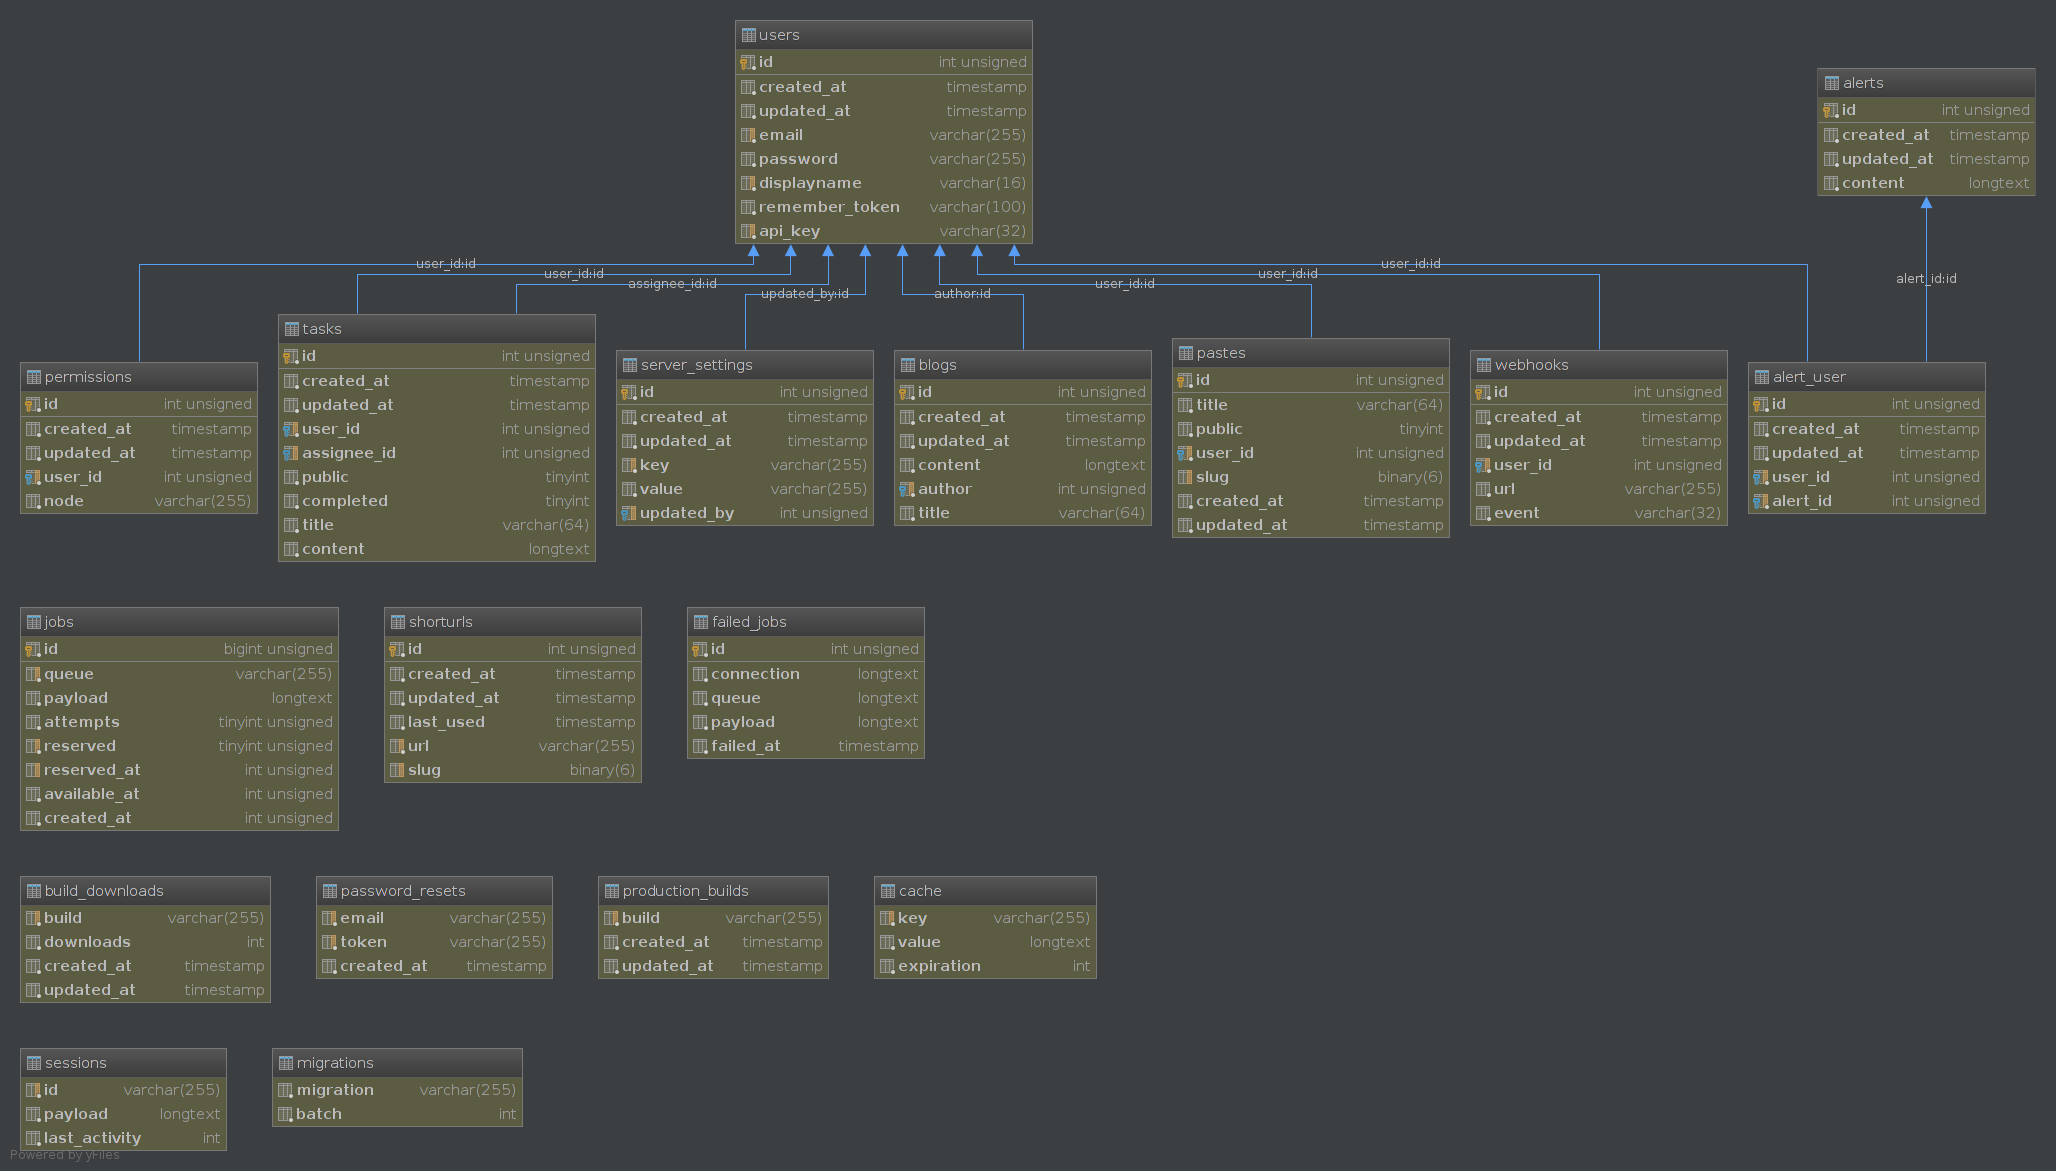
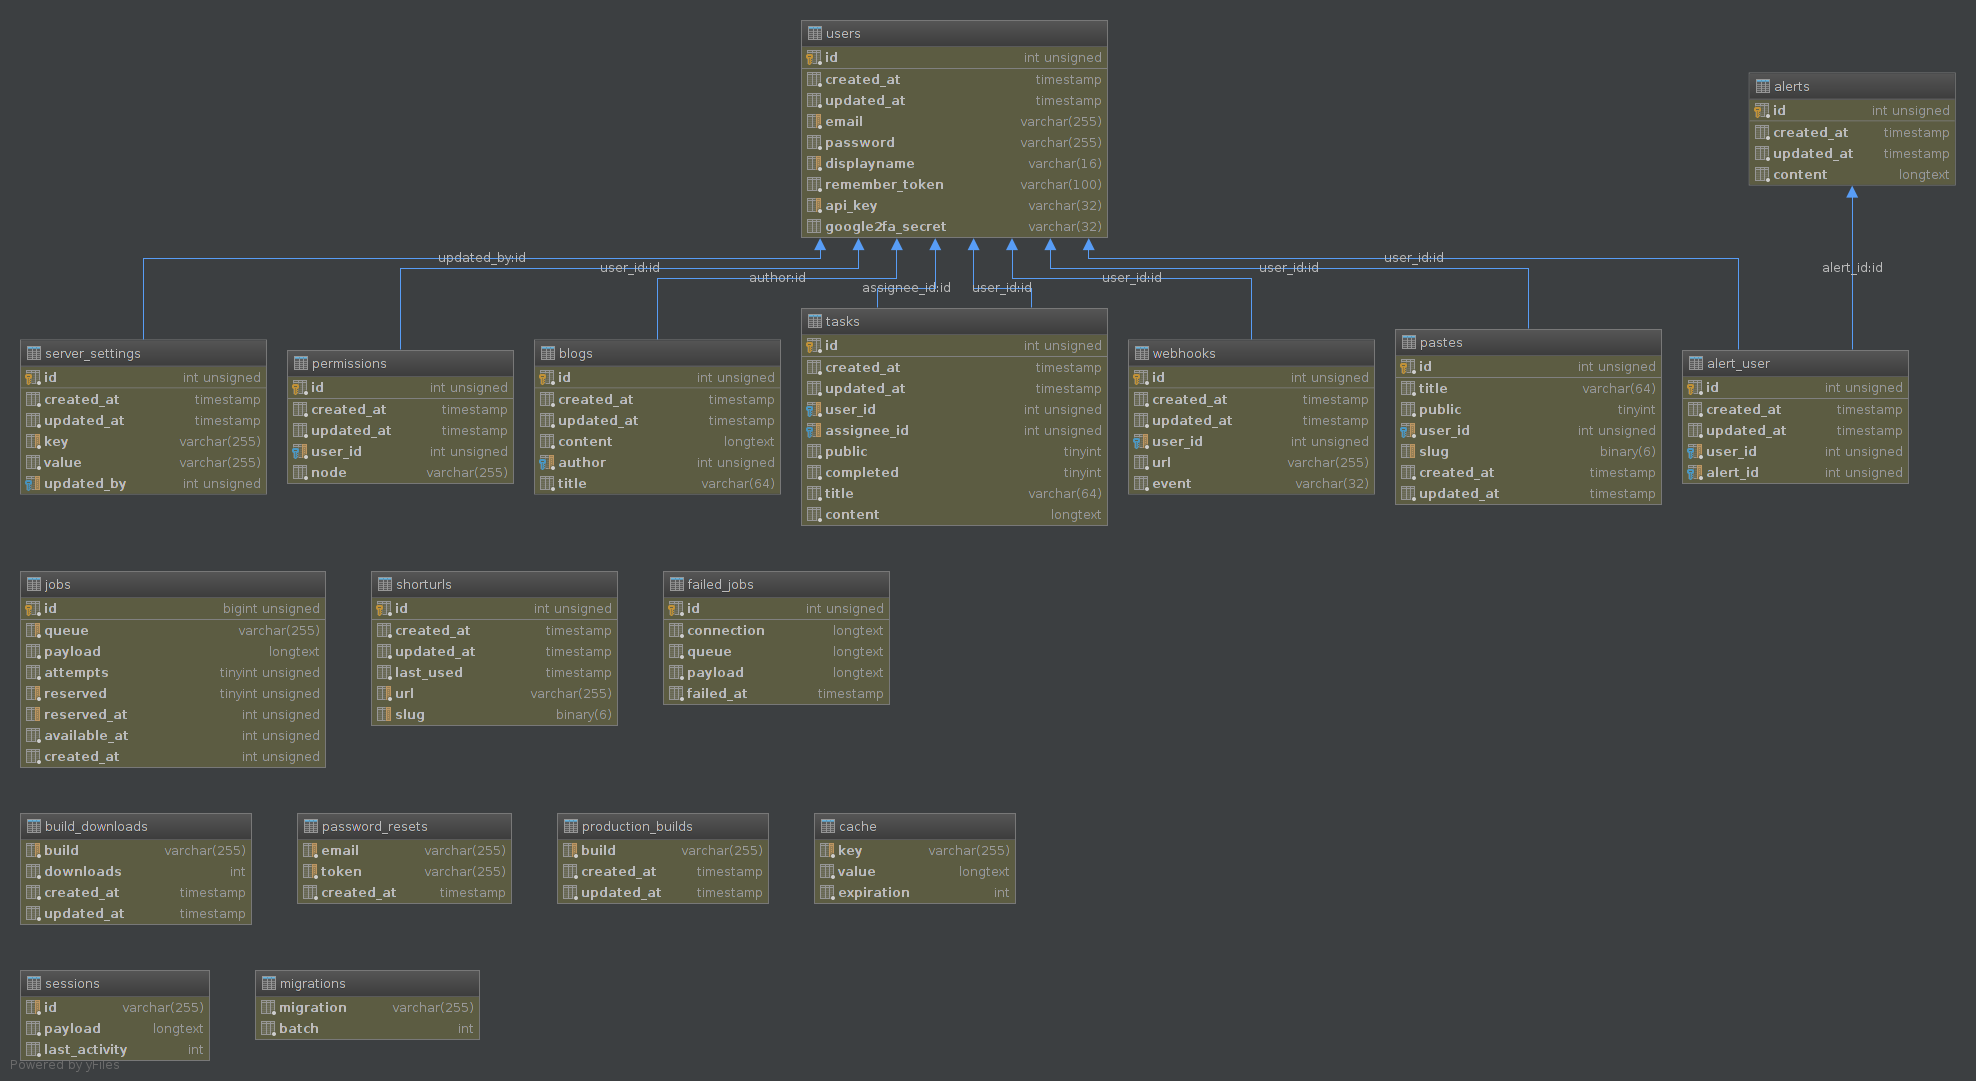
Add google2fa_secret column to user table for eventuall 2FA

diff --git a/database/migrations/2015_08_08_204404_Add2faSecretToUserTable.php b/database/migrations/2015_08_08_204404_Add2faSecretToUserTable.php
@@ -1,0 +1,27 @@
+<?php
+
+use Illuminate\Database\Migrations\Migration;
+
+class Add2faSecretToUserTable extends Migration {
+    /**
+     * Run the migrations.
+     *
+     * @return void
+     */
+    public function up() {
+        Schema::table('users', function ($table) {
+            $table->string('google2fa_secret', 32)->nullable();
+        });
+    }
+
+    /**
+     * Reverse the migrations.
+     *
+     * @return void
+     */
+    public function down() {
+        Schema::table('users', function ($table) {
+            $table->dropColumn('google2fa_secret');
+        });
+    }
+}
